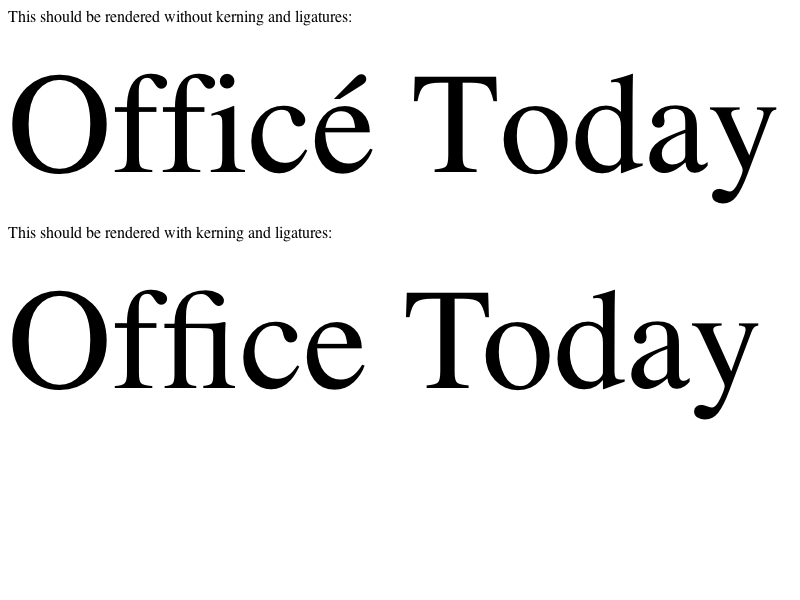
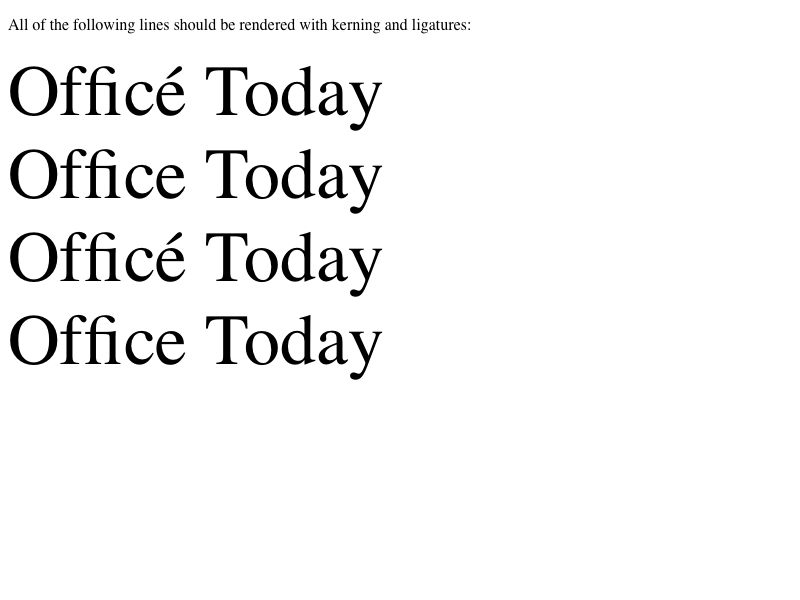
[OS X] Update platform/mac/fast/text/sticky-typesetting-features.html https://bugs.webkit.org/show_bug.cgi?id=157851
Reviewed by Simon Fraser.

Kerning and ligatures are enabled by default now.

* platform/mac/fast/text/sticky-typesetting-features-expected.png:
* platform/mac/fast/text/sticky-typesetting-features-expected.txt:
* platform/mac/fast/text/sticky-typesetting-features.html:

Identifier: 175971@main
git-svn-id: https://svn.webkit.org/repository/webkit/trunk@201091 268f45cc-cd09-0410-ab3c-d52691b4dbfc

diff --git a/LayoutTests/platform/mac/fast/text/sticky-typesetting-features.html b/LayoutTests/platform/mac/fast/text/sticky-typesetting-features.html
@@ -1,12 +1,20 @@
-<p>
-    This should be rendered without kerning and ligatures:
-</p>
-<div style="font-size: 144px;">
-    Office&#x0301; Today
-</div>
-<p>
-    This should be rendered with kerning and ligatures:
-</p>
-<div style="font-size: 144px; text-rendering: optimizelegibility">
-    Office Today
-</div>
+<!DOCTYPE html>
+<html>
+<head>
+<style>
+.test {
+    font-size: 72px;
+}
+.legibility {
+    text-rendering: optimizeLegibility;
+}
+</style>
+</head>
+<body>
+<p>All of the following lines should be rendered with kerning and ligatures:</p>
+<div class="test">Office&#x0301; Today</div>
+<div class="test">Office Today</div>
+<div class="test legibility">Office&#x0301; Today</div>
+<div class="test legibility">Office Today</div>
+</body>
+</html>
